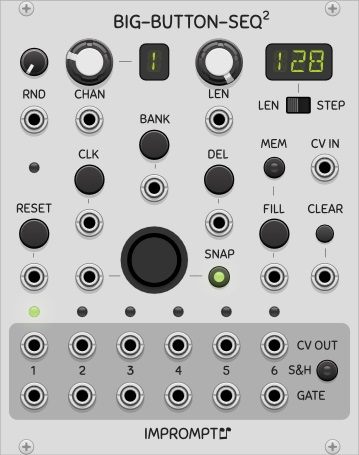
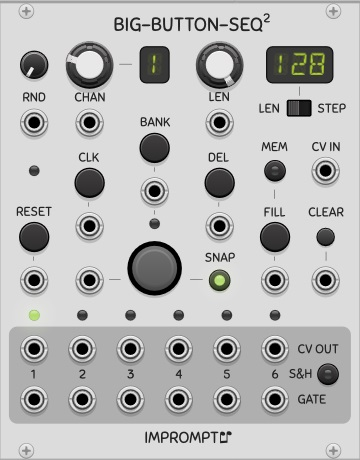
fix bigbuttons

diff --git a/src/BigButtonSeq2.cpp b/src/BigButtonSeq2.cpp
@@ -908,9 +908,8 @@ struct BigButtonSeq2Widget : ModuleWidget {
 		addInput(createDynamicPortCentered<IMPort>(VecPx(colRulerT5, rowRuler5 + knobCVjackOffsetY), true, module, BigButtonSeq2::FILL_INPUT, mode));
 
 		// And now time for... BIG BUTTON!
-		addChild(createLightCentered<GiantLight<RedLight>>(VecPx(colRulerCenter, rowRuler5 + 22), module, BigButtonSeq2::BIG_LIGHT));
-		addParam(createParamCentered<LEDBezelBig>(VecPx(colRulerCenter, rowRuler5 + 22), module, BigButtonSeq2::BIG_PARAM));
-		addChild(createLightCentered<GiantLight2<RedLight>>(VecPx(colRulerCenter, rowRuler5 + 22), module, BigButtonSeq2::BIGC_LIGHT));
+		addChild(createLightCentered<MediumLight<RedLight>>(VecPx(colRulerCenter, rowRuler5 - 11), module, BigButtonSeq2::BIG_LIGHT));
+		addParam(createLightParamCentered<LEDLightBezelBig>(VecPx(colRulerCenter, rowRuler5 + 26), module, BigButtonSeq2::BIG_PARAM, BigButtonSeq2::BIGC_LIGHT));
 		// Big CV input
 		addInput(createDynamicPortCentered<IMPort>(VecPx(colRulerCenter - clearAndDelButtonOffsetX, rowRuler5 + knobCVjackOffsetY), true, module, BigButtonSeq2::BIG_INPUT, mode));
 		// Big snap

diff --git a/src/BigButtonSeq.cpp b/src/BigButtonSeq.cpp
@@ -692,9 +692,8 @@ struct BigButtonSeqWidget : ModuleWidget {
 		addInput(createDynamicPortCentered<IMPort>(VecPx(col5 + 1, row6 + cvOffY), true, module, BigButtonSeq::FILL_INPUT, mode));
 
 		// And now time for... BIG BUTTON!
-		addChild(createLightCentered<GiantLight<RedLight>>(VecPx(colC, row6 + 25), module, BigButtonSeq::BIG_LIGHT));
-		addParam(createParamCentered<LEDBezelBig>(VecPx(colC, row6 + 25), module, BigButtonSeq::BIG_PARAM));
-		addChild(createLightCentered<GiantLight2<RedLight>>(VecPx(colC, row6 + 25), module, BigButtonSeq::BIGC_LIGHT));
+		addChild(createLightCentered<MediumLight<RedLight>>(VecPx(colC, row6 - 8), module, BigButtonSeq::BIG_LIGHT));
+		addParam(createLightParamCentered<LEDLightBezelBig>(VecPx(colC, row6 + 29), module, BigButtonSeq::BIG_PARAM, BigButtonSeq::BIGC_LIGHT));
 		// Big input
 		addInput(createDynamicPortCentered<IMPort>(VecPx(colC - 57, row6 + cvOffY), true, module, BigButtonSeq::BIG_INPUT, mode));
 		// Big snap

diff --git a/src/WriteSeq32.cpp b/src/WriteSeq32.cpp
@@ -609,7 +609,7 @@ struct WriteSeq32Widget : ModuleWidget {
 		WriteSeq32 *module;
 		std::shared_ptr<Font> font;
 		std::string fontPath;
-		char text[4];
+		char text[8];
 		int* notesPosLocal;
 
 		NotesDisplayWidget() {
@@ -695,7 +695,7 @@ struct WriteSeq32Widget : ModuleWidget {
 				nvgFillColor(args.vg, displayColOff);
 				nvgText(args.vg, textPos.x, textPos.y, "~~", NULL);
 				nvgFillColor(args.vg, displayColOn);
-				char displayStr[3];
+				char displayStr[8];
 				unsigned int numSteps = (module ? (unsigned int)(module->calcSteps()) : 32);
 				snprintf(displayStr, 3, "%2u", (unsigned int)numSteps);
 				nvgText(args.vg, textPos.x, textPos.y, displayStr, NULL);

diff --git a/src/comp/Components.hpp b/src/comp/Components.hpp
@@ -162,9 +162,9 @@ struct IMSwitch3VInv : SvgSwitch {
 };
 
 
-struct LEDBezelBig : SvgSwitch {
+struct LEDLightBezelBig : LEDLightBezel<RedLight> {
 	TransformWidget *tw;
-	LEDBezelBig();
+	LEDLightBezelBig();
 };
 
 
@@ -306,22 +306,6 @@ struct GreenRedWhiteLight : GrayModuleLightWidget {
 		addBaseColor(SCHEME_GREEN);
 		addBaseColor(SCHEME_RED);
 		addBaseColor(SCHEME_WHITE);
-	}
-};
-
-
-template <typename BASE>
-struct GiantLight : BASE {
-	GiantLight() {
-		this->box.size = mm2px(Vec(19.0f, 19.0f));
-	}
-};
-
-
-template <typename BASE>
-struct GiantLight2 : BASE {
-	GiantLight2() {
-		this->box.size = mm2px(Vec(12.8f, 12.8f));
 	}
 };
 

diff --git a/src/comp/Components.cpp b/src/comp/Components.cpp
@@ -184,11 +184,8 @@ IMSwitch3VInv::IMSwitch3VInv() {
 }
 
 
-
-LEDBezelBig::LEDBezelBig() {
-	momentary = true;
+LEDLightBezelBig::LEDLightBezelBig() {
 	float ratio = 2.13f;
-	addFrame(APP->window->loadSvg(asset::system("res/ComponentLibrary/LEDBezel.svg")));
 	sw->box.size = sw->box.size.mult(ratio);
 	fb->removeChild(sw);
 	tw = new TransformWidget();
@@ -197,6 +194,8 @@ LEDBezelBig::LEDBezelBig() {
 	tw->box.size = sw->box.size; 
 	fb->addChild(tw);
 	box.size = sw->box.size; 
+	light->box.size *= ratio; 
+	light->box.pos *= ratio;
 	shadow->box.size = sw->box.size; 
 }
 
